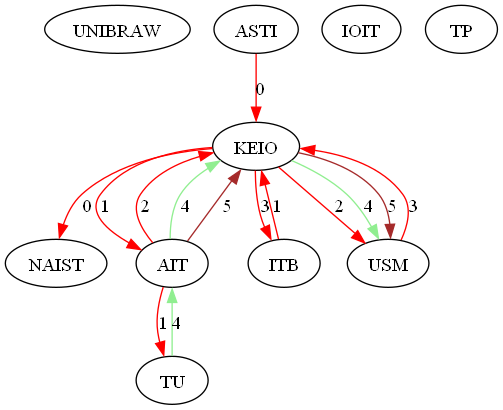
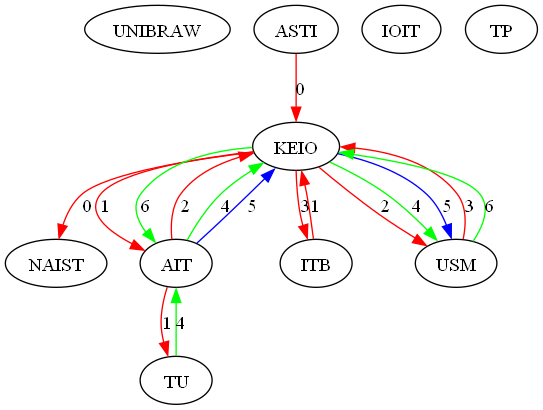
Virekr igen

diff --git a/src/split_graph_bdd.py b/src/split_graph_bdd.py
@@ -338,67 +338,15 @@ class SplitRWAProblem:
     def print_assignments(self, true_only=False, keep_false_prefix=""):
         pretty_print(self.base.bdd, self.rwa, true_only, keep_false_prefix=keep_false_prefix)
  
-def find_edges_not_in_subgraphs(graph, subgraphs):
-    # Create a set to store edges present in subgraphs
-    subgraph_edges = set()
-    for subgraph in subgraphs:
-        subgraph_edges.update(subgraph.edges(data="id"))
-    # Create a set to store edges present in the original graph but not in any subgraph
-    edges_not_in_subgraphs = set(graph.edges(data="id")) - subgraph_edges
 
-    return edges_not_in_subgraphs
 
 class AddBlock3():
     def __init__(self, G, subgraphs, rwa_list:list[SplitRWAProblem], oldDemands:dict[int,Demand], newDemands:dict[int,Demand], graphToNewDemands, oldDemandsToNewDemands:dict[int,list[int]]):
         self.base = SplitBDD(G, newDemands, rwa_list[0].base.ordering,  rwa_list[0].base.wavelengths, 
                             rwa_list[0].base.group_by_edge_order, rwa_list[0].base.interleave_lambda_binary_vars,
                             rwa_list[0].base.generics_first, True, rwa_list[0].base.reordering)
+        res = self.base.bdd.true
         self.expr = self.base.bdd.true
-        # start_time = time.time()
-        
-        #Force demands to have same wavelength bdd
-        sameWavelngthintermideateBDD = self.base.bdd.true
-        for old_demand, list_of_new_demands in oldDemandsToNewDemands.items():
-            if len(list_of_new_demands) > 1: 
-                vard_list = []
-                for d in list_of_new_demands: 
-                    vard_list.append(self.base.get_lam_vector(d))
-
-                for i, k in enumerate(vard_list):
-                    
-                    if i+1 >= len(vard_list):
-                        break
-                    sameWavelngthintermideateBDD = sameWavelngthintermideateBDD & self.base.equals(list(vard_list[i].values()), list(vard_list[i+1].values()))
-            else:
-                pass#add this case
-        
-        
-        #Set edges not used to false bdd
-        t = self.base.bdd.true
-        for d in oldDemands: 
-            currentNewDemands = oldDemandsToNewDemands[d]
-            graphsUsed = {}
-            #Find all subgraphs used
-            for g in subgraphs: 
-                for dd in currentNewDemands:
-                    if g in graphToNewDemands: 
-                        if dd in graphToNewDemands[g]: 
-                            graphsUsed[g] = dd       
-            graphsUsed = list(graphsUsed.keys())
-            edgesNotUsed = find_edges_not_in_subgraphs(G, graphsUsed)
-
-            for e in edgesNotUsed: 
-                myId = -222
-                
-                for ee in G.edges(data="id"):
-                    if e == ee:
-                        myId = ee[2]
-                        break
-
-                myStr = "p"+str(myId)+"_"+str(d)
-                v = self.base.bdd.var(myStr)
-                t = t & ~ v
-        
         #Rename each subgraph, to unique demands and wavelengths. 
         itera = -1
         for iii,g in enumerate(subgraphs): 
@@ -418,11 +366,11 @@ class AddBlock3():
             #create the dictionary with rename values in it
             for demand_in_g_2, renamed_demand in demand_in_g_to_unique_demand.items():
                 #Create the l rename mapping. We go from the old l demands to new l demadns 
-                for k in range(1,rwa_list[itera].base.encoding_counts[BDD.ET.LAMBDA]+1): 
-                    current_l = "l"+str(k)+"_"+str(demand_in_g_2)  
+                for k in range(1,rwa_list[itera].base.encoding_counts[BDD.ET.LAMBDA]+1): #Fuck det virker ikke, da der kun er få rwa_list men mange andre ting 
+                    current_l = "l"+str(k)+"_"+str(demand_in_g_2)   #skal ll variabler også ændres?
                     renamed_l = "l"+str(k)+"_"+str(renamed_demand)
                    
-                    current_ll = "ll"+str(k)+"_"+str(demand_in_g_2) 
+                    current_ll = "ll"+str(k)+"_"+str(demand_in_g_2)   #skal ll variabler også ændres?
                     renamed_ll = "ll"+str(k)+"_"+str(renamed_demand)
                     renameDict.update({current_l:renamed_l, current_ll:renamed_ll})
                     
@@ -437,22 +385,30 @@ class AddBlock3():
             rwa_list[itera].rwa = rwa_list[itera].base.bdd.let(renameDict,rwa_list[itera].rwa)
             self.base.bdd.declare(*renameDict.values())
 
-        # rename = time.time()
-
-      
-        self.expr = self.expr & t
-        # add_not_used_edges = time.time()
-
-        self.expr = self.expr & sameWavelngthintermideateBDD & t
-        # sameWavelength = time.time()
 
         #Combine all of the solutions togethere to a single solution
         for rwa in rwa_list:
             self.expr = self.expr & rwa.base.bdd.copy(rwa.rwa, self.base.bdd)
-        # combine = time.time()
-
-
         
+
+        #Force demands to have same wavelength
+        t = self.base.bdd.true
+        for old_demand, list_of_new_demands in oldDemandsToNewDemands.items():
+            if len(list_of_new_demands) > 1: 
+                vard_list = []
+                for d in list_of_new_demands: 
+                    vard_list.append(self.base.get_lam_vector(d))
+
+                for i, k in enumerate(vard_list):
+                    
+                    if i+1 >= len(vard_list):
+                        break
+                    t = t & self.base.equals(list(vard_list[i].values()), list(vard_list[i+1].values()))
+            else:
+                pass#add this case
+        self.expr = self.expr & t
+        
+
         
         #Rename from the unique demands, to old demands
         renameDict:dict[str,str] = {}
@@ -482,9 +438,7 @@ class AddBlock3():
                     renameDict.update({current_p:renamed_p})
         self.expr = self.base.bdd.let(renameDict, self.expr)
         wavelengthsRenameDict:dict[str,str] = {}
-        # renameBackToOldDemands=time.time()
 
-        #Remove unused wavelengths 
         for old_demand, list_of_new_demands in oldDemandsToNewDemands.items():
             vard_list = []
             for d in list_of_new_demands: 
@@ -497,14 +451,45 @@ class AddBlock3():
                     wavelengthsRenameDict[single] = kkk
 
         self.expr = self.base.bdd.let(wavelengthsRenameDict, self.expr)
-        # collapseWavelengths = time.time()
+
+        def find_edges_not_in_subgraphs(graph, subgraphs):
+            # Create a set to store edges present in subgraphs
+            subgraph_edges = set()
+            for subgraph in subgraphs:
+                subgraph_edges.update(subgraph.edges(data="id"))
+            # Create a set to store edges present in the original graph but not in any subgraph
+            edges_not_in_subgraphs = set(graph.edges(data="id")) - subgraph_edges
+
+            return edges_not_in_subgraphs
+
+        #Set Edges not used to False
+        edgesNotUsedbdd = self.base.bdd.true
+        for d in oldDemands: 
+            currentNewDemands = oldDemandsToNewDemands[d]
+            graphsUsed = {}
+            #Find all subgraphs used
+            for g in subgraphs: 
+                for dd in currentNewDemands:
+                    if g in graphToNewDemands: 
+                        if dd in graphToNewDemands[g]: 
+                            graphsUsed[g] = dd       
+            graphsUsed = list(graphsUsed.keys())
+            edgesNotUsed = find_edges_not_in_subgraphs(G, graphsUsed)
+
+            for e in edgesNotUsed: 
+                myId = -222
+                
+                for ee in G.edges(data="id"):
+                    if e == ee:
+                        myId = ee[2]
+                        break
+
+                myStr = "p"+str(myId)+"_"+str(d)
+                v = self.base.bdd.var(myStr)
+                edgesNotUsedbdd = edgesNotUsedbdd &  ~v
+        self.expr = self.expr & edgesNotUsedbdd
 
 
-        # print("Rename", rename-start_time)
-        # print("NotUse", add_not_used_edges-start_time)
-        # print("Combin", combine-start_time)
-        # print("sameWa", sameWavelength-start_time)
-        # print("RenamB", renameBackToOldDemands-start_time)
 
 
 
@@ -512,8 +497,8 @@ if __name__ == "__main__":
     import topology
 
     G = nx.MultiDiGraph(nx.nx_pydot.read_dot("../dot_examples/3NodeSPlitGraph.dot"))
-    G = topology.get_nx_graph(topology.TOPZOO_PATH +  "/Cesnet2001.gml")
     G = nx.MultiDiGraph(nx.nx_pydot.read_dot("../dot_examples/split5NodeExample.dot"))
+    G = topology.get_nx_graph(topology.TOPZOO_PATH +  "/Ai3.gml")
 
     import topology
     if G.nodes.get("\\n") is not None:
@@ -531,7 +516,7 @@ if __name__ == "__main__":
         print("\n,")
 
     # oldDemands = {0: Demand("A", "B"), 1:Demand("A","D"), 2:Demand("A", "E"),3:Demand("A","B"), 4:Demand("E", "A") }
-    numOfDemands = 10
+    numOfDemands =7
     oldDemands = {0:Demand("A","B")}
     oldDemands = topology.get_demands(G, numOfDemands, seed=2)
     print("demands", oldDemands)
@@ -544,68 +529,56 @@ if __name__ == "__main__":
     
     types = [BDD.ET.EDGE, BDD.ET.LAMBDA, BDD.ET.NODE, BDD.ET.DEMAND, BDD.ET.TARGET, BDD.ET.PATH, BDD.ET.SOURCE]
     
-    start_time = time.time()
 
     solutions = []  
-    wavelengths = 2
+    wavelengths = 4
     print("Solve")
-    # for g in subgraphs: 
+    for g in subgraphs: 
 
-    #     if g in graphToNewDemands:
-    #         demIndex = graphToNewDemands[g]
-    #         res:dict[int,Demand] = {}
-    #         for d in demIndex:
-    #             res[d] = newDemandsDict[d]
+        if g in graphToNewDemands:
+            demIndex = graphToNewDemands[g]
+            res:dict[int,Demand] = {}
+            for d in demIndex:
+                res[d] = newDemandsDict[d]
 
-    #         rw1 = SplitRWAProblem(g, res, types, wavelengths, group_by_edge_order =True, generics_first=False)
+            rw1 = SplitRWAProblem(g, res, types, wavelengths, group_by_edge_order =True, generics_first=False)
 
-    #         solutions.append(rw1)
-    #     else: 
-    #         pass
-    # e1 = time.time() 
-    # solvedBddes = e1 - start_time
-    # print("took ", solvedBddes, " to solve the bdds")
-    # print("ready to add")
-    # add=AddBlock3(G, subgraphs, solutions, oldDemands, newDemandsDict, graphToNewDemands, oldDemandsToNewDemands)
-    # addtime = time.time() - e1
-    # print("adding took ", addtime, " time" )
-    # print("done")
-    # totalTime = time.time() - start_time
 
-    # print("adding took ", (addtime*100) /totalTime, "% while building took", (solvedBddes*100)/totalTime, "%" )
-   
-   
-   
-   
-    start_time = time.time()
+            solutions.append(rw1)
+        else: 
+            pass
+
+    print("ready to add")
+    add=AddBlock3(G, subgraphs, solutions, oldDemands, newDemandsDict, graphToNewDemands, oldDemandsToNewDemands)
+    print("done")
+
     base = BDD(G,oldDemands,types,wavelengths,group_by_edge_order=True,generics_first=False).bdd
     rw2 = RWAProblem(G, oldDemands, types, wavelengths, group_by_edge_order =True, generics_first=False)
-    end_time = time.time() - start_time
-    print(end_time)
-    # # f1 = rw2.base.bdd.copy(rw2.rwa, base)
-    # f2 = add.base.bdd.copy(add.expr, base)
+
+    f1 = rw2.base.bdd.copy(rw2.rwa, base)
+    f2 = add.base.bdd.copy(add.expr, base)
     
-    # # print([x for x in rw2.base.bdd.vars.keys() if x not in add.base.bdd.vars.keys()])
-    # # print(add.base.bdd.vars.keys(), len(add.base.bdd.vars.keys()))
-    # # print(rw2.base.bdd.vars.keys(), len(add.base.bdd.vars.keys()))
+    # print([x for x in rw2.base.bdd.vars.keys() if x not in add.base.bdd.vars.keys()])
+    # print(add.base.bdd.vars.keys(), len(add.base.bdd.vars.keys()))
+    # print(rw2.base.bdd.vars.keys(), len(add.base.bdd.vars.keys()))
 
-    # ass_our = get_assignments(add.base.bdd, add.expr)
-    # ass_base = get_assignments(rw2.base.bdd, rw2.rwa)
+    ass_our = get_assignments(add.base.bdd, add.expr)
+    ass_base = get_assignments(rw2.base.bdd, rw2.rwa)
 
-    # print(len(ass_our), len(ass_base))    
+    print(len(ass_our), len(ass_base))    
 
-    # print("nice",f2 == f1)
+    print("nice",f2 == f1)
 
-    # def get_assignments(bdd:_BDD, expr):
-    #     return list(bdd.pick_iter(expr))
+    def get_assignments(bdd:_BDD, expr):
+        return list(bdd.pick_iter(expr))
 
-    # print("Vi gør kar til at printe :P")
-    # from draw_general import draw_assignment
-    # import time
-    # for i in range(1,10000): 
-    #     assignments = get_assignments(add.base.bdd, add.expr)
-    #     if len(assignments) < i:
-    #         break
+    print("Vi gør kar til at printe :P")
+    from draw_general import draw_assignment
+    import time
+    for i in range(1,10000): 
+        assignments = get_assignments(add.base.bdd, add.expr)
+        if len(assignments) < i:
+            break
         
-    #     draw_assignment(assignments[i-1], add.base, G)
-    #     user_input = input("Enter something: ")    
+        draw_assignment(assignments[i-1], add.base, G)
+        user_input = input("Enter something: ")    
